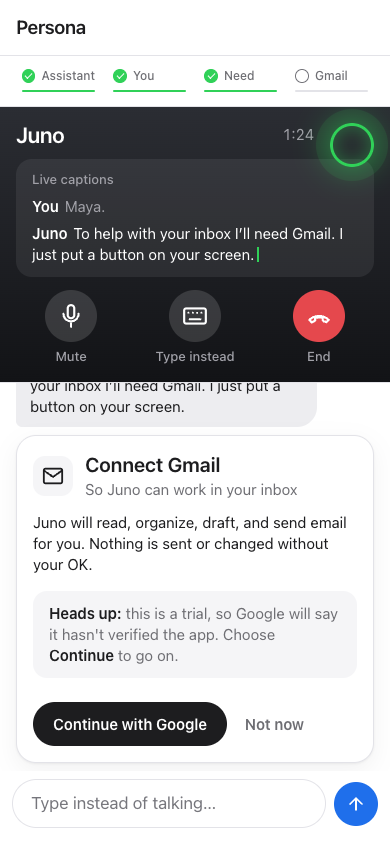
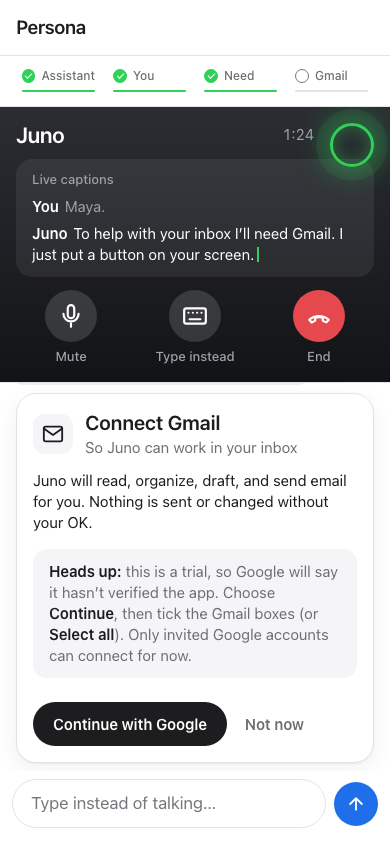
fix(web): Gmail card copy per DESIGN-002 copy.md U-10..U-15; secondary 'Allow full access' (DQ-02, DQ-03, DQ-13)
Updates the gmail-card-idle@mobile visual baseline for the intentionally longer heads-up note.

Changed region(s): [[0.0615, 0.4313, 0.8923, 0.8009], [0.5538, 0.4313, 0.7077, 0.4621]]

diff --git a/apps/web/components/GmailCard.tsx b/apps/web/components/GmailCard.tsx
@@ -2,6 +2,10 @@ import type { GmailCard as Card, GmailCapability, UIAction } from "@/lib/session
 import { AlertIcon, CheckIcon, MailIcon } from "./icons";
 
 const CAN: Record<GmailCapability, string> = { read: "read your email", organize: "organize your inbox", send: "send email" };
+const canStill = (missing: GmailCapability[]) => {
+  const left = (Object.keys(CAN) as GmailCapability[]).filter((c) => !missing.includes(c)).map((c) => CAN[c]);
+  return left.length ? left.join(" and ") : "do the rest";
+};
 
 /** Gmail connect card (spec §4.5). `inCall` enables the compact variant on mobile (CSS). */
 export function GmailCard({ card, agent, inCall, onAct }: { card: Card; agent: string; inCall: boolean; onAct: (a: UIAction) => void }) {
@@ -37,7 +41,7 @@ export function GmailCard({ card, agent, inCall, onAct }: { card: Card; agent: s
         <p className="full">Nothing is sent or changed without your OK. You sign in on Google, so {agent} never sees your password.</p>
         <p className="compact">{agent} will read, organize, draft, and send email for you. Nothing is sent or changed without your OK.</p>
         <div className="note">
-          <b>Heads up:</b> this is a trial, so Google will say it hasn’t verified the app. Choose <b>Continue</b> to go on.
+          <b>Heads up:</b> this is a trial, so Google will say it hasn’t verified the app. Choose <b>Continue</b>, then tick the Gmail boxes (or <b>Select all</b>). Only invited Google accounts can connect for now.
         </div>
         <div className="actions">
           {busy ? (
@@ -61,7 +65,7 @@ export function GmailCard({ card, agent, inCall, onAct }: { card: Card; agent: s
             </>
           )}
         </div>
-        <div className="fine full">You can disconnect Gmail anytime in Settings.</div>
+        <div className="fine full">You can disconnect Gmail anytime.</div>
       </div>
     );
   }
@@ -84,7 +88,7 @@ export function GmailCard({ card, agent, inCall, onAct }: { card: Card; agent: s
         )}
         {card.state === "wrong_account" ? (
           <>
-            <p>Wrong account? Disconnect it and pick another one on Google.</p>
+            <p>Wrong account? Switch to another one on Google.</p>
             <div className="actions">
               <button type="button" className="btn primary" onClick={() => onAct("gmail_disconnect")}>
                 Use a different account
@@ -99,12 +103,12 @@ export function GmailCard({ card, agent, inCall, onAct }: { card: Card; agent: s
             {!!card.missing?.length && (
               // Partial grant (ARCHITECTURE §11): connected, with the reduced capability stated plainly.
               <p className="limited" data-testid="gmail-limited">
-                Connected without permission to {card.missing.map((c) => CAN[c]).join(" or ")}. {agent} can still do the rest. Reconnect anytime to allow it.
+                Connected, but without permission to {card.missing.map((c) => CAN[c]).join(" or ")}. {agent} can still {canStill(card.missing)}. Allow it anytime.
               </p>
             )}
             <div className="actions">
               {!!card.missing?.length && (
-                <button type="button" className="btn quiet" onClick={() => onAct("gmail_retry")}>
+                <button type="button" className="btn secondary" onClick={() => onAct("gmail_retry")}>
                   Allow full access
                 </button>
               )}
@@ -122,10 +126,10 @@ export function GmailCard({ card, agent, inCall, onAct }: { card: Card; agent: s
     <div className="gcard err" role="group" aria-label="Gmail not connected" data-testid="gmail-card" data-state="error">
       {head("Gmail isn’t connected yet", null, <AlertIcon />)}
       <div className="alert" role="alert">
-        Google didn’t finish signing in. The window may have closed, or access wasn’t allowed.
+        Google didn’t finish signing in. The window may have closed, access wasn’t allowed, or this account isn’t on the trial list.
       </div>
       <p>
-        Try again and choose <b>Continue</b> on the “unverified app” screen, then <b>Allow</b>.
+        Try again: choose <b>Continue</b> on the “unverified app” screen, tick the Gmail boxes, then <b>Continue</b>.
       </p>
       <div className="actions">
         <button type="button" className="btn primary" onClick={() => onAct("gmail_retry")}>
